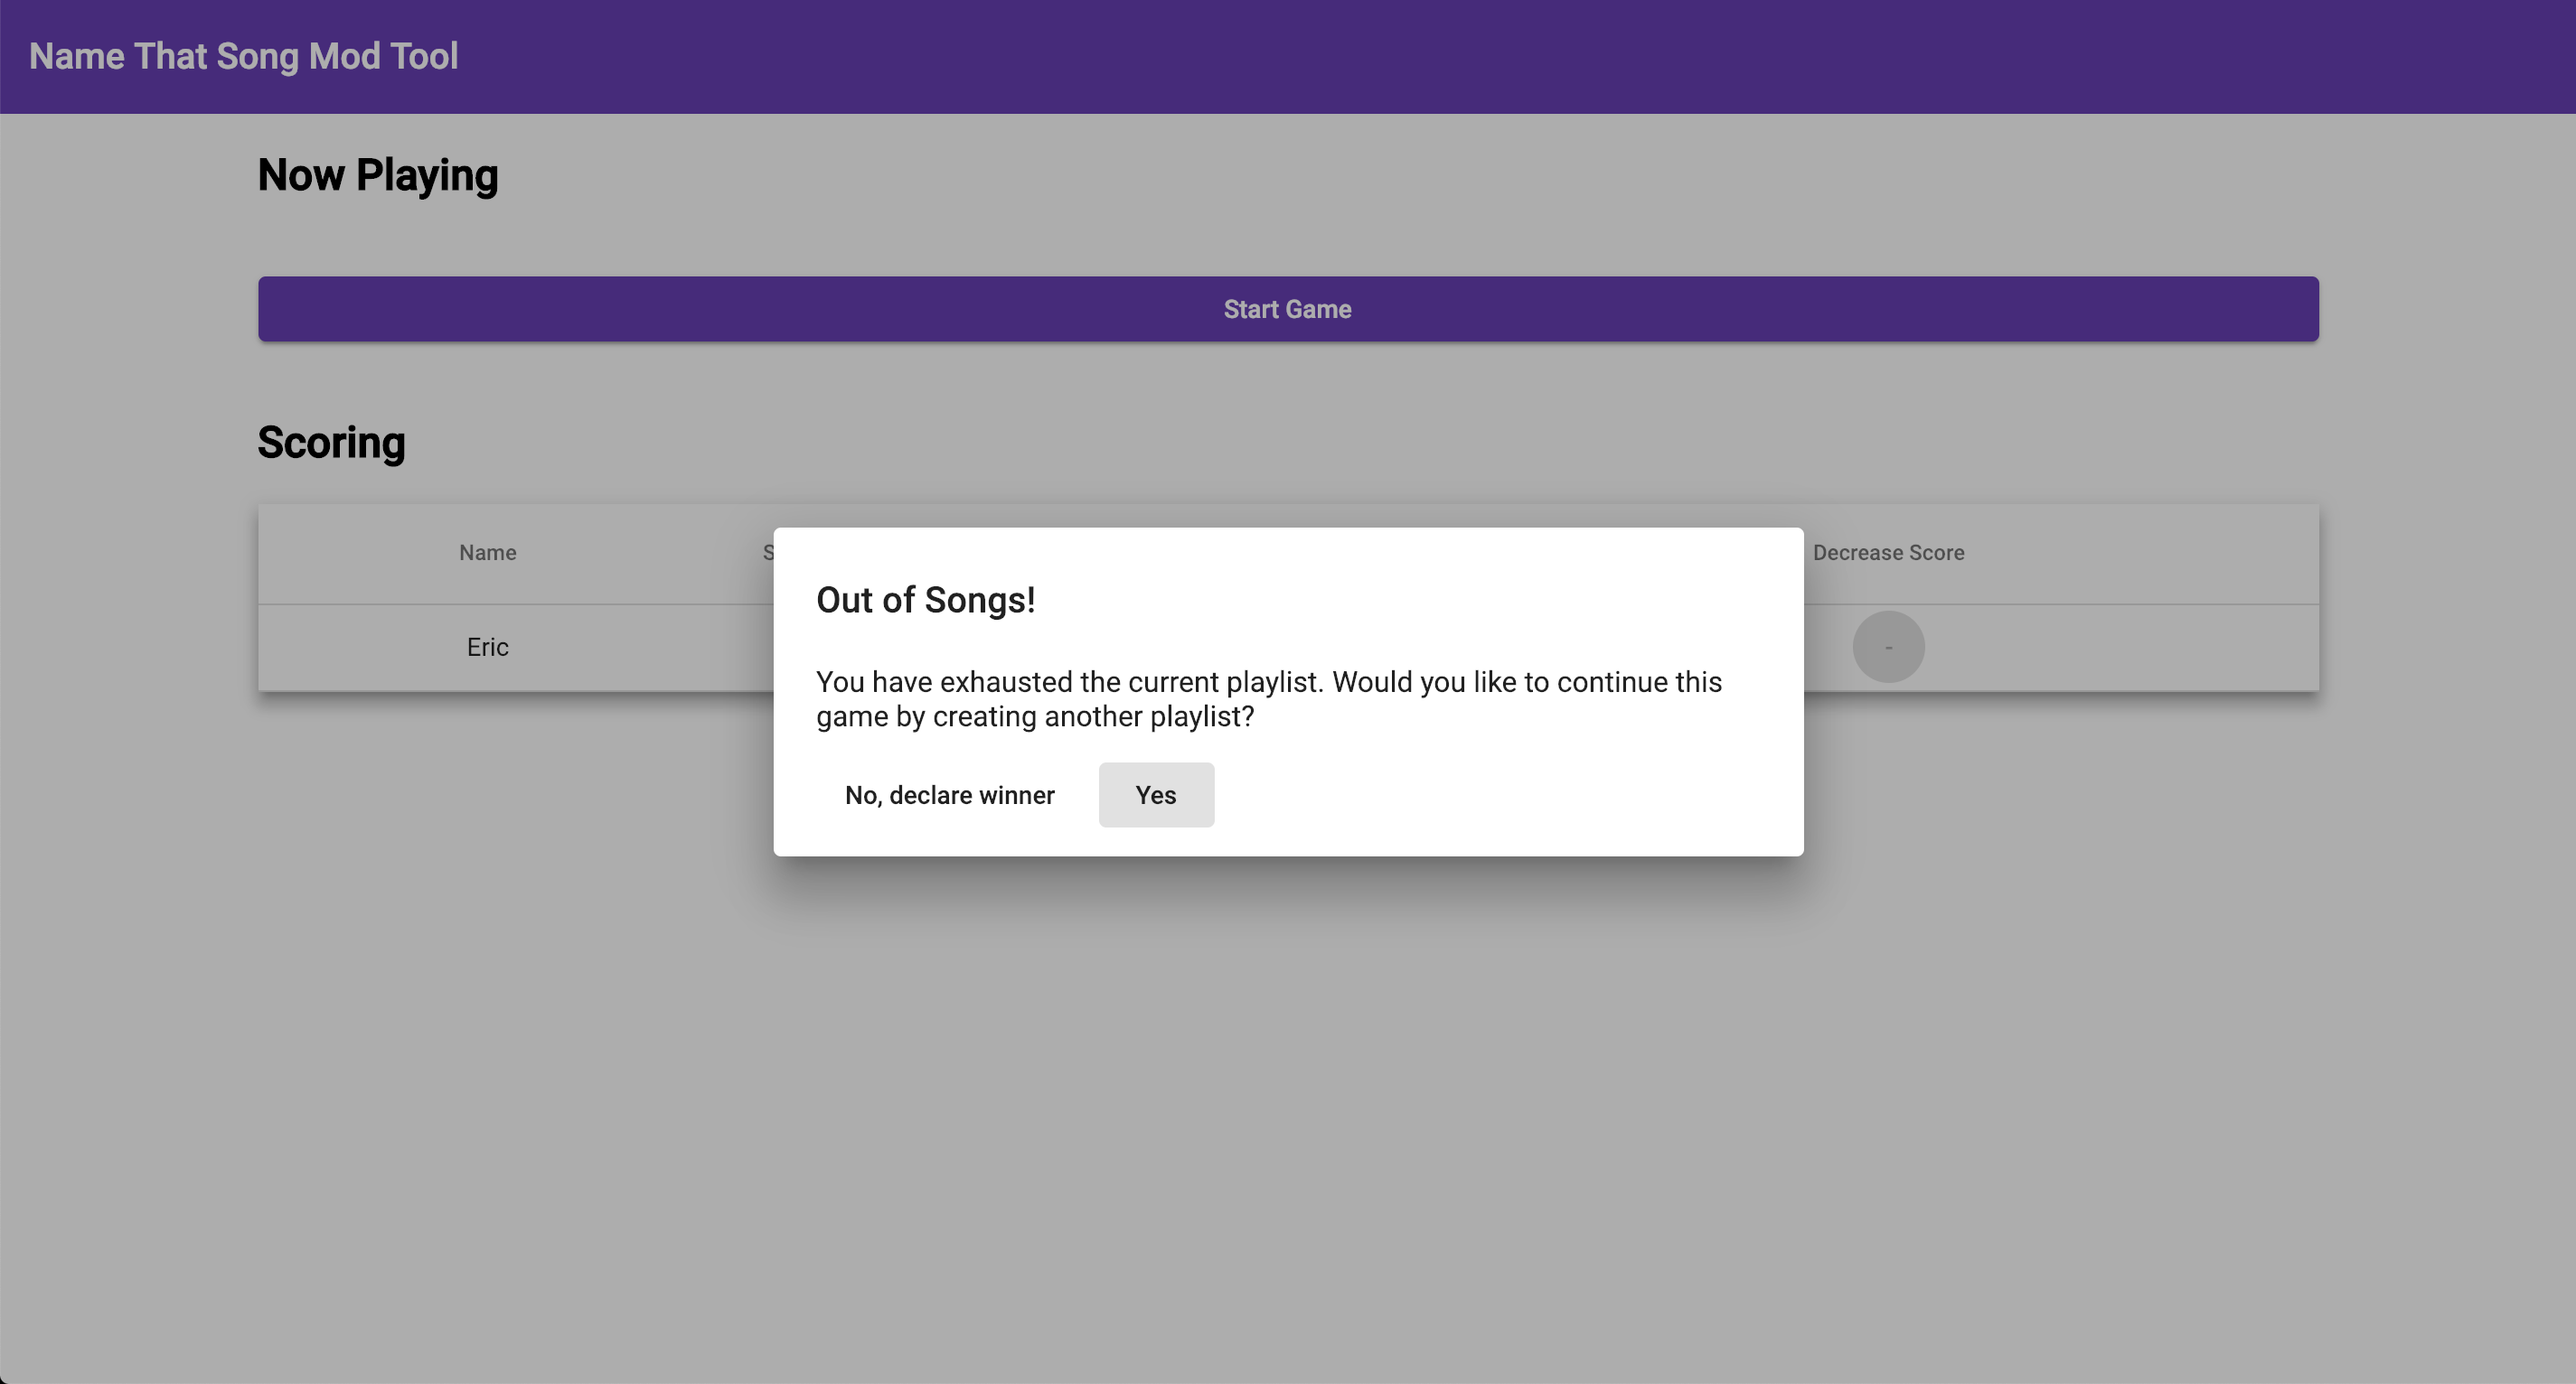
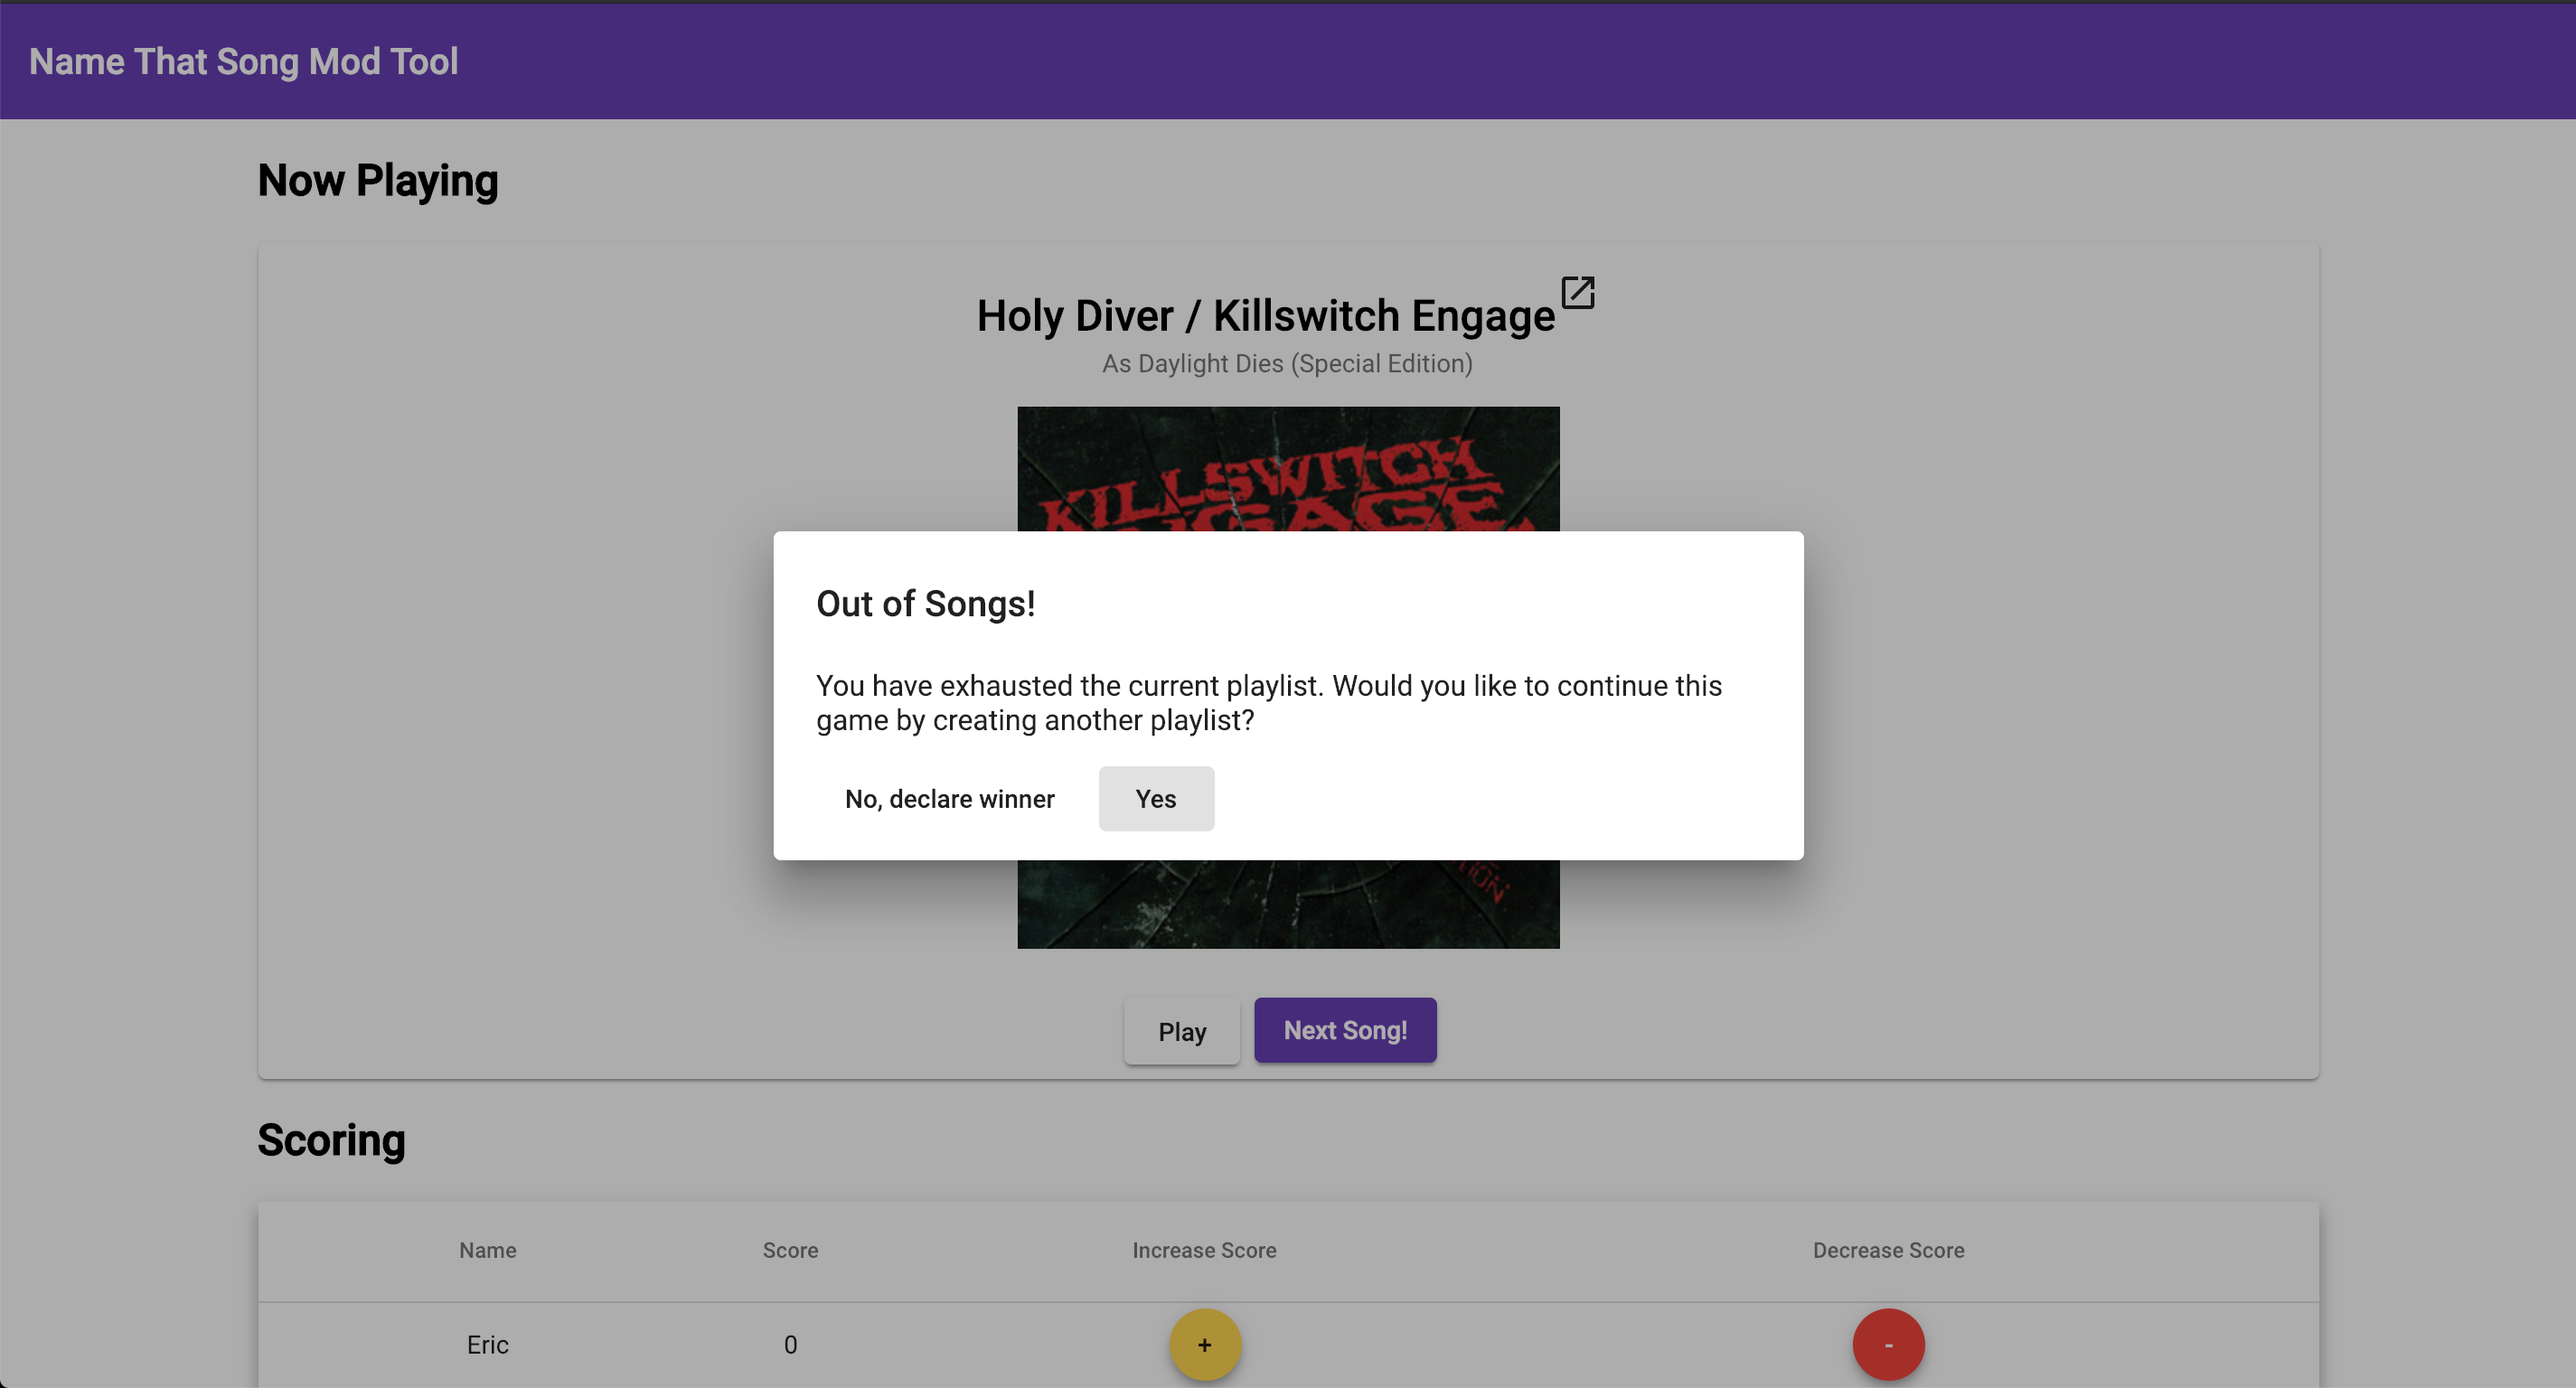
don't show 'Start Game' when playlist exhausted

diff --git a/src/app/components/playGame/playGame.component.ts b/src/app/components/playGame/playGame.component.ts
@@ -97,9 +97,8 @@ export class PlayGameComponent implements OnInit {
     this.audioPlayer.pause();
 
     this.playlistService.getRandomSong(true).subscribe(song => {
-      this.currentSong = song;
-
-      if (this.currentSong) {
+      if (song) {
+        this.currentSong = song;
         this.audioPlayer.src = this.currentSong.previewUrl;
         this.audioPlayer.load();
         this.audioPlayer.play();
